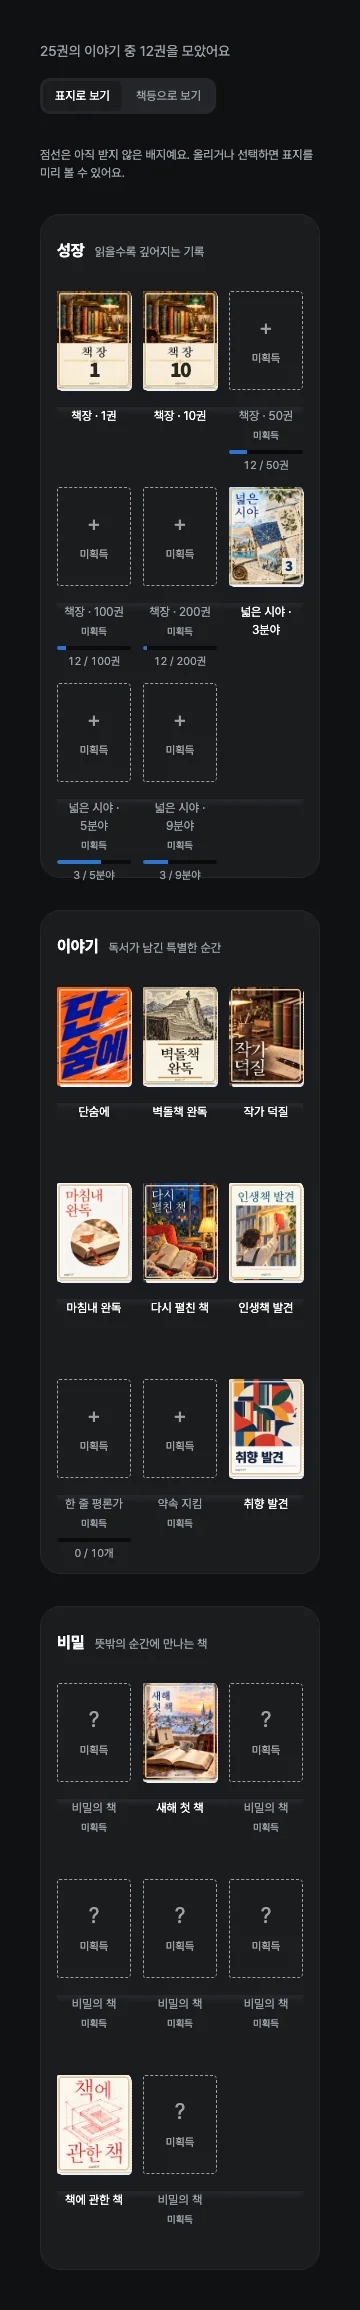
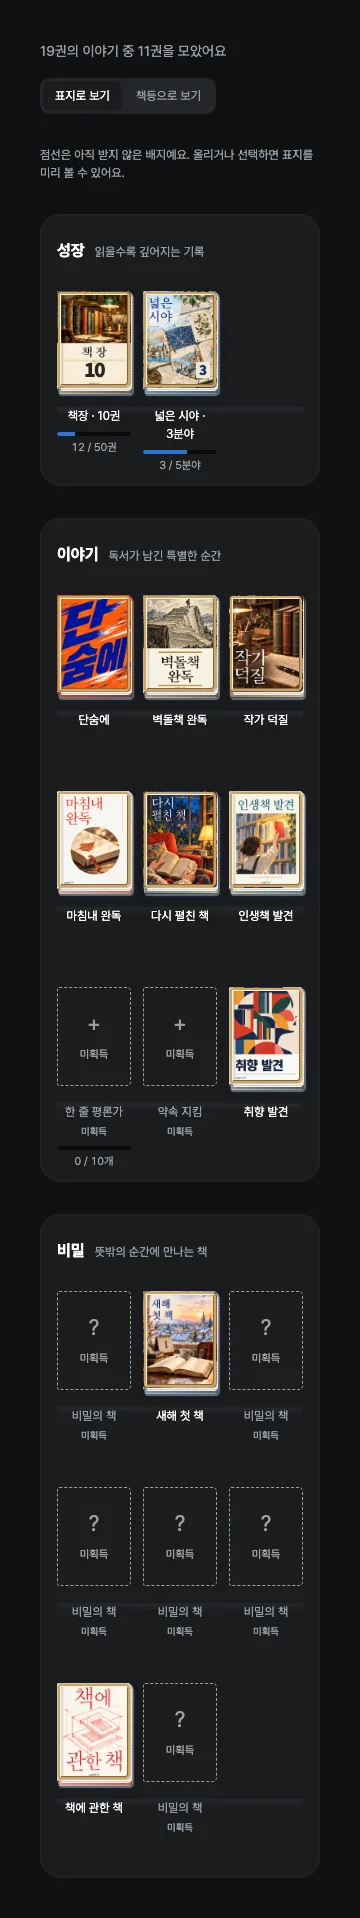
feat: 양장본 배지 표현을 강화하고 최고 성장 단계만 표시한다

Changed region(s): [[0.0917, 0.0, 0.8861, 0.9844], [0.6111, 0.1538, 0.8556, 0.2769], [0.6722, 0.6767, 0.7944, 0.8921]]

diff --git a/apps/page0127/src/features/badge/ui/BadgeMedal.module.css b/apps/page0127/src/features/badge/ui/BadgeMedal.module.css
@@ -26,7 +26,7 @@
 }
 .pages {
   position: absolute;
-  inset: 2% -2% -1% 4%;
+  inset: 3% -1.5% -1% 5%;
   border-radius: 2% 5% 5% 2%;
   background: repeating-linear-gradient(
     to bottom,
@@ -150,17 +150,18 @@
   }
 }
 
-/* 소장한 배지의 얇은 금속 테두리. 인쇄 아트를 덮지 않고 가장자리만 강조한다. */
+/* 두꺼운 표지판과 금박 테두리, 책등의 접힘 홈을 갖춘 양장 제본. */
 .book:not([data-locked]) .cover::before {
   content: "";
   position: absolute;
   z-index: 2;
-  inset: 2px;
-  border: 1px solid #e0c58c;
+  inset: 1px;
+  border: clamp(2px, 2.5cqw, 5px) solid #c9a56a;
   border-radius: inherit;
   box-shadow:
-    inset 0 0 0 1px rgb(255 255 255 / 35%),
-    0 0 0 1px rgb(65 44 18 / 14%);
+    inset 1px 1px 0 #fff1c9,
+    inset -1px -1px 0 #8e642f,
+    0 0 0 1px rgb(65 44 18 / 22%);
   pointer-events: none;
 }
 .book:not([data-locked]) .cover::after {
@@ -170,11 +171,11 @@
   inset: -40% -90%;
   background: linear-gradient(
     110deg,
-    transparent 38%,
-    rgb(255 255 255 / 12%) 43%,
-    rgb(255 251 221 / 65%) 49%,
-    rgb(255 255 255 / 12%) 55%,
-    transparent 60%
+    transparent 30%,
+    rgb(255 255 255 / 20%) 39%,
+    rgb(255 251 221 / 85%) 49%,
+    rgb(255 255 255 / 24%) 59%,
+    transparent 70%
   );
   transform: translateX(-65%);
   pointer-events: none;
@@ -226,7 +227,7 @@ button:is(:hover, :focus-visible) .book[data-locked] .emptyState {
 }
 @media (prefers-reduced-motion: no-preference) {
   button:is(:hover, :focus-visible) .book:not([data-locked]) .cover::after {
-    animation: badge-shine 850ms ease-out both;
+    animation: badge-shine 1100ms ease-out both;
   }
 }
 @keyframes badge-shine {
@@ -244,4 +245,36 @@ button:is(:hover, :focus-visible) .book[data-locked] .emptyState {
   .book[data-locked] .spineTitle {
     transition: none;
   }
+}
+
+.book:not([data-locked])::before {
+  content: "";
+  position: absolute;
+  z-index: -1;
+  inset: 1% -3% -4% 1%;
+  border-radius: inherit;
+  background: linear-gradient(
+    135deg,
+    var(--jacket-paper),
+    color-mix(in srgb, var(--jacket-ink) 70%, var(--jacket-paper))
+  );
+  border: 1px solid rgb(45 34 20 / 22%);
+  box-shadow:
+    1px 2px 1px rgb(255 255 255 / 35%),
+    2px 5px 6px rgb(20 41 78 / 16%);
+  pointer-events: none;
+}
+.book:not([data-locked]) .artwork::after {
+  content: "";
+  position: absolute;
+  inset: 0 auto 0 3%;
+  width: 7%;
+  background: linear-gradient(
+    to right,
+    rgb(0 0 0 / 18%),
+    rgb(255 255 255 / 22%) 32%,
+    rgb(0 0 0 / 16%) 64%,
+    transparent
+  );
+  pointer-events: none;
 }

diff --git a/apps/page0127/src/features/badge/model/badges.test.ts b/apps/page0127/src/features/badge/model/badges.test.ts
@@ -256,45 +256,27 @@ describe('회독과 성장 단계 회귀', () => {
       ).earned
     ).toBe(false);
   });
-  it('전체 책장은 25칸이고 과거 단계마다 실제 달성일과 근거를 보존한다', () => {
+  it('성장은 최고 달성 단계 하나와 다음 단계 진행도를 표시한다', () => {
     const books = Array.from({ length: 12 }, (_, i) =>
       done(`2026-01-${String(i + 1).padStart(2, '0')}`, {
         id: `b${i}`,
         isbn: `isbn${i}`,
       })
     );
-    const badges = computeBadges(
-      { books, readingGoal: null, firstTasteAnalysisAt: null },
-      { includeGrowthSteps: true }
-    );
-    expect(badges).toHaveLength(25);
-    const shelf = badges.filter((b) => b.id === 'shelf');
-    expect(shelf.map((b) => b.earned)).toEqual([
-      true,
-      true,
-      false,
-      false,
-      false,
-    ]);
-    expect(shelf[0]).toMatchObject({
-      level: 1,
-      earnedAt: '2026-01-01',
-      book: { id: 'b0' },
-      progress: null,
+    const badges = computeBadges({
+      books,
+      readingGoal: null,
+      firstTasteAnalysisAt: null,
     });
-    expect(shelf[1]).toMatchObject({
+    expect(badges).toHaveLength(19);
+    const shelf = badges.filter((b) => b.id === 'shelf');
+    expect(shelf).toHaveLength(1);
+    expect(shelf[0]).toMatchObject({
       level: 2,
+      earned: true,
       earnedAt: '2026-01-10',
       book: { id: 'b9' },
-      progress: null,
-    });
-    expect(shelf[2]).toMatchObject({
-      level: 3,
-      earnedAt: null,
       progress: { current: 12, target: 50 },
     });
-    expect(
-      computeBadges({ books, readingGoal: null, firstTasteAnalysisAt: null })
-    ).toHaveLength(19);
   });
 });

diff --git a/apps/page0127/src/features/badge/model/badges.ts b/apps/page0127/src/features/badge/model/badges.ts
@@ -150,10 +150,11 @@ const badge = (
   progress: extra.progress ?? null,
 });
 
-export const computeBadges = (
-  { books, readingGoal, firstTasteAnalysisAt }: BadgeInput,
-  { includeGrowthSteps = false } = {}
-): Badge[] => {
+export const computeBadges = ({
+  books,
+  readingGoal,
+  firstTasteAnalysisAt,
+}: BadgeInput): Badge[] => {
   const completed = books
     .filter((book) => book.status === 'completed')
     .sort(byReadOrder);
@@ -234,7 +235,7 @@ export const computeBadges = (
     return null;
   })();
 
-  const result = [
+  return [
     badge(
       {
         id: 'shelf',
@@ -437,21 +438,4 @@ export const computeBadges = (
       readingHit(3)
     ),
   ];
-  if (!includeGrowthSteps) return result;
-  return result.flatMap((item) => {
-    if (item.kind !== 'growth') return [item];
-    const levels = item.id === 'shelf' ? SHELF_LEVELS : WIDE_VIEW_LEVELS;
-    const current =
-      item.id === 'shelf' ? countDistinct(completed) : categoryOrder.length;
-    return levels.map((target, index) => {
-      const hit =
-        item.id === 'shelf'
-          ? nthDistinct(completed, target)
-          : hitOf(categoryOrder[target - 1]);
-      return badge(item, hit, {
-        level: index + 1,
-        progress: hit ? null : { current, target },
-      });
-    });
-  });
 };

diff --git a/apps/page0127/src/features/badge/ui/BadgeCollection.stories.tsx b/apps/page0127/src/features/badge/ui/BadgeCollection.stories.tsx
@@ -178,14 +178,14 @@ export const MilestonesAndReread: Story = {
   play: async ({ canvasElement }) => {
     const canvas = within(canvasElement);
     await expect(
-      canvas.getByRole('button', { name: '책장 · 1권 (획득)' })
-    ).toBeVisible();
+      canvas.queryByRole('button', { name: '책장 · 1권 (획득)' })
+    ).not.toBeInTheDocument();
     await expect(
       canvas.getByRole('button', { name: '책장 · 10권 (획득)' })
     ).toBeVisible();
     await expect(
-      canvas.getByRole('button', { name: '책장 · 50권 (미획득)' })
-    ).toBeVisible();
+      canvas.queryByRole('button', { name: '책장 · 50권 (미획득)' })
+    ).not.toBeInTheDocument();
     await expect(
       canvas.getByRole('button', { name: '다시 펼친 책 (획득)' })
     ).toBeVisible();

diff --git a/apps/page0127/src/features/badge/ui/BadgeSummary.tsx b/apps/page0127/src/features/badge/ui/BadgeSummary.tsx
@@ -15,7 +15,7 @@ import styles from './BadgeShelf.module.css';
 
 type BadgeSummaryProps = BadgeInput & { username: string; isOwner: boolean };
 
-/** 받은 모든 단계의 배지를 나란히 놓고, 넘치면 가로로 탐색한다. */
+/** 받은 배지를 나란히 놓고, 넘치면 가로로 탐색한다. */
 export const BadgeSummary = ({
   username,
   isOwner,
@@ -24,11 +24,7 @@ export const BadgeSummary = ({
   firstTasteAnalysisAt,
 }: BadgeSummaryProps) => {
   const badges = useMemo(
-    () =>
-      computeBadges(
-        { books, readingGoal, firstTasteAnalysisAt },
-        { includeGrowthSteps: true }
-      ),
+    () => computeBadges({ books, readingGoal, firstTasteAnalysisAt }),
     [books, readingGoal, firstTasteAnalysisAt]
   );
   const earned = badges

diff --git a/apps/page0127/src/features/badge/model/badgePresentation.test.tsx b/apps/page0127/src/features/badge/model/badgePresentation.test.tsx
@@ -83,7 +83,7 @@ describe('배지 표지와 공개 범위', () => {
     expect(visitor).not.toContain('data-badge-book');
     expect(visitor).not.toContain('비밀의 책');
     const owner = renderToStaticMarkup(<BadgeCollection {...input} isOwner />);
-    expect(owner.match(/data-badge-book="true"/g)).toHaveLength(25);
+    expect(owner.match(/data-badge-book="true"/g)).toHaveLength(19);
     expect(owner.match(/data-cover="unwritten"/g)).toHaveLength(8);
     const earnedVisitor = renderToStaticMarkup(
       <BadgeCollection

diff --git a/apps/page0127/src/features/badge/ui/BadgeCollection.tsx b/apps/page0127/src/features/badge/ui/BadgeCollection.tsx
@@ -30,11 +30,7 @@ export const BadgeCollection = ({
 }: BadgeCollectionProps) => {
   const [view, setView] = useState<'cover' | 'spine'>('cover');
   const badges = useMemo(
-    () =>
-      computeBadges(
-        { books, readingGoal, firstTasteAnalysisAt },
-        { includeGrowthSteps: true }
-      ),
+    () => computeBadges({ books, readingGoal, firstTasteAnalysisAt }),
     [books, readingGoal, firstTasteAnalysisAt]
   );
   const earnedCount = badges.filter((badge) => badge.earned).length;

diff --git a/docs/design/badge-books/README.md b/docs/design/badge-books/README.md
@@ -28,10 +28,10 @@
 
 ## 소장 상태와 성장 단계
 
-- 획득한 표지에는 얇은 금속 테두리를 두고 마우스·키보드 포커스에서 빛이 한 번 지나간다. 모션 감축 설정에서는 움직이지 않는다.
-- 서재 요약은 3·5개 제한을 없애고 받은 모든 성장 단계와 배지를 나란히 놓는다. 가로 스크롤과 키보드 포커스로 끝까지 탐색할 수 있다.
+- 획득한 표지에는 양장본의 두꺼운 표지판·책등 홈·금속 테두리를 두고 마우스·키보드 포커스에서 빛이 한 번 지나간다. 모션 감축 설정에서는 움직이지 않는다.
+- 서재 요약은 3·5개 제한을 없애고 받은 배지를 나란히 놓는다. 가로 스크롤과 키보드 포커스로 끝까지 탐색할 수 있다.
 - 미획득 표지는 점선 빈 칸과 ‘미획득’ 문구로 표시한다. 마우스나 키보드 포커스에서 흑백 표지를 미리 보고, 터치에서는 상세를 열어 확인한다. 미획득 비밀 배지는 실제 표지 대신 공통 표지만 보여 준다.
-- 성장 배지 8단계(책장 1·10·50·100·200권, 시야 3·5·9분야)를 각각 보존한다. 과거 단계도 해당 시점의 획득일·근거 책을 가진다. 전체 책장은 25칸이다. 저장 알림 계산은 기존처럼 종류별 현재 단계를 사용한다.
+- 성장 배지는 현재 달성한 최고 단계 하나만 표시한다. 10권을 달성했다면 책장 10권만 남고, 다음 50권까지의 진행도를 표시한다. 해당 단계의 획득일·근거 책을 유지하며 전체 배지 종류는 19개다. 성장 단계별 표지 변형은 8가지다.
 - 재독은 저장된 `read_count`와 같은 ISBN의 실제 완독 기록 수 중 큰 값을 사용한다. 읽는 중인 회독·중복 행·다른 사람의 기록은 더하지 않는다. `stronger_khj`의 공개 기록에서 동일 ISBN 완독 두 건이 모두 `read_count=1`인 경우를 읽기 전용으로 확인했다. 운영 데이터는 수정하지 않는다.
 
 ![모든 소장 배지 가로 책장](summary-desktop.webp)
